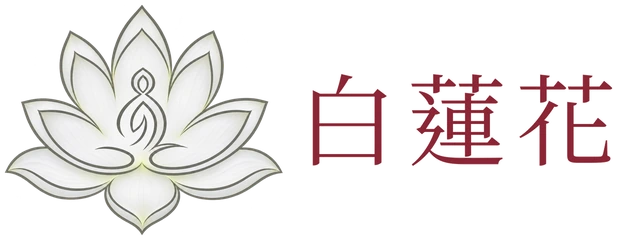
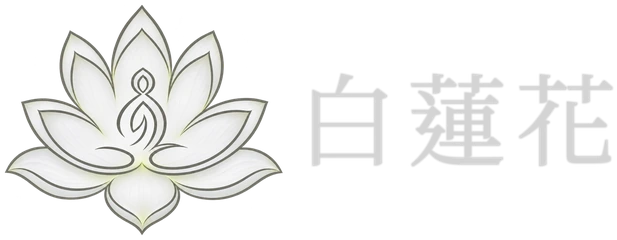
浅色色带改蓝色纸纹，深色模式改黑白

Changed region(s): [[0.6467, 0.2917, 1.0, 0.7], [0.4927, 0.2917, 0.6467, 0.7], [0.6467, 0.6708, 0.6775, 0.7]]

diff --git a/.vitepress/theme/custom.css b/.vitepress/theme/custom.css
@@ -13,7 +13,7 @@
    【比例】阅读宽度 720px；首页目录条 460px（文字短，条子窄，两边多留白）
    【间距】只用 8 的倍数：8 / 16 / 24 / 32 / 48
    【颜色】与手机图标一致：
-       明黄 #f5d046  页眉、页脚两条色带（与手机浏览器色条连成一片）
+       蓝色纸纹 #668daa  页眉、页脚两条色带（与手机浏览器色条连成一片；2026-11-20 由明黄改蓝）
        纯白          阅读区底色（长时间读经不刺眼）
        米色 #e9e0d3 + 赭金 #b28e46 细边   目录条
        蓝灰 #b2bcc6  搜索框（圆角比目录条小一档，以示区别）
@@ -67,8 +67,9 @@
 
   /* ---- 颜色 ---- */
   --pk-bg: #ffffff;
-  --pk-band: #f5d046;         /* 页眉、页脚色带：明黄 */
-  --pk-band-ink: #4a4843;     /* 色带上的图标与文字 */
+  --pk-band: #668daa;         /* 页眉、页脚色带：蓝色纸纹（图片 public/band-blue.webp，这是它的平均色，图片载入前先显示） */
+  --pk-band-img: url('/band-blue.webp');
+  --pk-band-ink: #ffffff;     /* 色带上的图标与文字：白 */
   --pk-gold: #b28e46;         /* 目录条细边 */
   --pk-search: rgba(178, 188, 198, .42);   /* 搜索框：淡淡透明的蓝灰 */
   --pk-search-ink: #66717d;                /* 搜索框文字：淡一些，区别于目录的黑字 */
@@ -102,38 +103,37 @@ html[lang="bo"] { --t-sm: var(--bo-sm); --t-ui: var(--bo-ui); --t-body: var(--bo
 .ui-en { --t-brand: 22px; --t-nav: 12px; }
 /* 网站名与莲花大小相配：莲花高 48px，中文网站名 28px，藏文 30px，英文大写 PUNDARIKA 22px（字距加宽） */
 
-/* ============ 深色模式（2026-11-19 新配色：蓝黑 / 深蓝 / 灰蓝 / 浅蓝） ============
-   页面背景 #0D1928 · 顶部底部导航 #142C43 · 内容卡片 #203D57 · 悬停选中 #2C526F
-   按钮、选中图标 #A8D3ED · 正文 #E8EFF5 · 次要文字 #B2C5D5 */
+/* ============ 深色模式（2026-11-20 改为黑白：黑底、深灰导航、灰卡片，白字调柔和） ============ */
 .dark {
-  --pk-bg: #0d1928;           /* 页面背景：蓝黑 */
-  --pk-band: #142c43;         /* 顶部、底部导航：深蓝 */
-  --pk-band-ink: #b2c5d5;     /* 导航上的图标与文字：浅灰蓝 */
-  --pk-accent: #a8d3ed;       /* 按钮、选中图标：浅蓝 */
-  --pk-hover: #2c526f;        /* 悬停、选中背景 */
-  --pk-gold: #2c526f;         /* 原“金色细边”的位置：换成悬停蓝，细而不抢 */
-  --pk-search: rgba(32, 61, 87, .78);
-  --pk-search-ink: #e8eff5;
-  --pk-search-ph: #7f97ab;
-  --pk-search-btn: #a8d3ed;
-  --pk-search-btn-h: #c0e0f3;
-  --pk-edge: rgba(168, 211, 237, .16);   /* 卡片边线：极淡的浅蓝 */
+  --pk-bg: #121212;           /* 页面背景：近黑 */
+  --pk-band: #1c1c1c;         /* 顶部、底部导航：深灰 */
+  --pk-band-img: none;
+  --pk-band-ink: #b8b8b8;     /* 导航上的图标与文字 */
+  --pk-accent: #e6e6e6;       /* 按钮、选中图标 */
+  --pk-hover: #333333;        /* 悬停、选中背景 */
+  --pk-gold: #333333;
+  --pk-search: rgba(255, 255, 255, .07);
+  --pk-search-ink: #d6d6d6;
+  --pk-search-ph: #777777;
+  --pk-search-btn: #d9d9d9;
+  --pk-search-btn-h: #ececec;
+  --pk-edge: rgba(255, 255, 255, .10);   /* 卡片边线：极淡 */
   --pk-brand-halo: none;
-  --pk-gold-ink: #a8d3ed;     /* 悬停、选中、焦点 */
-  --pk-soft: 0 0 12px rgba(0, 0, 0, .35);
-  --pk-ctl: #203d57;          /* 内容卡片：灰蓝 */
-  --pk-border: #2c526f;
-  --pk-ink: #e8eff5;          /* 正文：柔白 */
-  --pk-ink-2: #b2c5d5;        /* 次要文字：浅灰蓝 */
-  --pk-ink-3: #b2c5d5;
-  --pk-brand: #a8d3ed;        /* 选中的导航按钮 */
-  --pk-shrine: #a8d3ed;
+  --pk-gold-ink: #e6e6e6;     /* 悬停、选中、焦点 */
+  --pk-soft: 0 0 12px rgba(0, 0, 0, .4);
+  --pk-ctl: #242424;          /* 内容卡片：深灰 */
+  --pk-border: #333333;
+  --pk-ink: #d4d4d4;          /* 正文：柔白（不用纯白，避免刺眼） */
+  --pk-ink-2: #a6a6a6;        /* 次要文字 */
+  --pk-ink-3: #8c8c8c;
+  --pk-brand: #e6e6e6;        /* 选中的导航按钮 */
+  --pk-shrine: #cfcfcf;
   --pk-sun: #f5c542;
   --pk-shadow: none;
-  --vp-c-bg: #0d1928;
-  --vp-c-brand-1: #a8d3ed;
-  --vp-c-brand-2: #c0e0f3;
-  --vp-c-brand-soft: rgba(168, 211, 237, .16);
+  --vp-c-bg: #121212;
+  --vp-c-brand-1: #e0e0e0;
+  --vp-c-brand-2: #f0f0f0;
+  --vp-c-brand-soft: rgba(255, 255, 255, .12);
 }
 
 html, body { background: var(--pk-bg); color: var(--pk-ink); font-family: var(--font-ui); }
@@ -169,7 +169,7 @@ body, .pk-item, .pk-searchbox, .pk-nav-btn { transition: background-color .25s, 
 .Layout { padding-bottom: calc(var(--bottom-h) + var(--s3)); box-sizing: border-box; }
 .pk-mt-card { bottom: calc(var(--bottom-h) + 8px); max-height: 50vh; }
 .pk-search-panel { max-height: calc(100dvh - var(--bottom-h) - 200px); }
-.pk-band { width: 100%; background: var(--pk-band); color: var(--pk-band-ink); transition: background-color .25s; }
+.pk-band { width: 100%; background: var(--pk-band); background-image: var(--pk-band-img); background-size: 256px 256px; background-repeat: repeat; color: var(--pk-band-ink); transition: background-color .25s; }
 /* 横屏时避开刘海和圆角 */
 .pk-band { padding-left: env(safe-area-inset-left, 0px); padding-right: env(safe-area-inset-right, 0px); box-sizing: border-box; }
 /* 页面最外层底色也跟着色调，滚动回弹时露出的边缘不会是别的颜色 */
@@ -241,6 +241,8 @@ html { background-color: var(--pk-bg); }
 @media (hover: hover) and (pointer: fine) { .pk-nav-btn:hover { background: rgba(255, 255, 255, .35); } }
 @media (hover: hover) and (pointer: fine) { .dark .pk-nav-btn:hover { background: rgba(255, 255, 255, .08); } }
 .pk-nav-btn.on { color: var(--pk-brand) !important; }
+html:not(.dark) .pk-nav-btn.on { color: #ffffff !important; background: rgba(255, 255, 255, .18); }   /* 蓝色色带上：当前页按钮白字加淡白底 */
+html:not(.dark) .pk-band { text-shadow: 0 1px 1px rgba(30, 50, 70, .25); }   /* 白字在蓝纸纹上更清楚 */
 .pk-nav-sep { width: 1px; height: 28px; margin: 0 6px; background: var(--pk-border); }
 .pk-tone .ic-sun { color: currentColor; }
 .pk-tone .ic-moon { display: none; }
@@ -359,7 +361,7 @@ html { background-color: var(--pk-bg); }
 }
 .pk-search-go.is-bo { padding-top: 5px; font-size: 18px; }
 .pk-search-go:active { background: var(--pk-search-btn-h); }
-.dark .pk-search-go { color: #0d1928; }   /* 浅蓝按钮配蓝黑字 */
+.dark .pk-search-go { color: #121212; }   /* 浅灰按钮配黑字 */
 
 /* 搜索结果：在搜索框正下方展开 */
 .pk-search-panel {
@@ -390,7 +392,7 @@ html { background-color: var(--pk-bg); }
 .pk-search-hit-title { display: block; font-family: var(--font-bo); font-size: 18px; line-height: 1.6; }
 .pk-search-hit-text { display: block; margin-top: 2px; font-family: var(--font-bo); font-size: 15px; line-height: 1.7; color: var(--pk-ink-2); overflow-wrap: anywhere; }
 .pk-search-hit mark { background: rgba(245, 208, 70, .55); color: inherit; border-radius: 2px; padding: 0 1px; }
-.dark .pk-search-hit mark { background: rgba(168, 211, 237, .28); color: inherit; }
+.dark .pk-search-hit mark { background: rgba(255, 255, 255, .18); color: inherit; }
 .pk-search-label { min-width: 0; line-height: 1.5; white-space: nowrap; overflow: hidden; text-overflow: ellipsis; }
 
 /* ============ 第三行：页标题 ============ */
@@ -858,8 +860,8 @@ html[lang="en"] .pk-item-name { letter-spacing: .01em; }
 /* 深色：悬停、选中用 #2C526F 底色 */
 @media (hover: hover) and (pointer: fine) {
   .dark a.pk-item:hover { background: var(--pk-hover); border-color: var(--pk-accent); }
-  .dark .pk-nav-btn:hover { background: rgba(44, 82, 111, .55); }
+  .dark .pk-nav-btn:hover { background: rgba(255, 255, 255, .08); }
 }
-.dark .pk-nav-btn.on { background: rgba(44, 82, 111, .55); }
-.dark .pk-searchbox:focus-within { border-color: rgba(168, 211, 237, .45); }
+.dark .pk-nav-btn.on { background: rgba(255, 255, 255, .08); }
+.dark .pk-searchbox:focus-within { border-color: rgba(255, 255, 255, .30); }
 .dark .pk-footer-icon { filter: brightness(1.45) saturate(1.05); }

diff --git a/.vitepress/theme/components/SiteHeader.vue b/.vitepress/theme/components/SiteHeader.vue
@@ -20,7 +20,7 @@ const showSearch = ref(false)
 // 手机浏览器顶栏颜色跟着色调走：浅色明黄，深色深蓝（与页眉色带一致）
 onMounted(() => {
   watch(isDark, (d) => {
-    document.querySelectorAll('meta[name="theme-color"]').forEach((m) => m.setAttribute('content', d ? '#142c43' : '#f5d046'))
+    document.querySelectorAll('meta[name="theme-color"]').forEach((m) => m.setAttribute('content', d ? '#1c1c1c' : '#668daa'))
   }, { immediate: true })
 })
 
